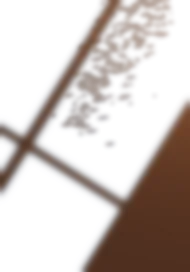
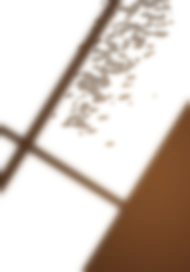
Re-grade A night as a warm lamp-lit evening and add 4:5 hero layout

Changed region(s): [[0.4737, 0.5294, 1.0, 0.9706], [0.5263, 0.0, 0.6316, 0.0882], [0.4737, 0.1176, 0.5263, 0.1471]]

diff --git a/feature/widget/src/main/assets/mood/compose_ref.py b/feature/widget/src/main/assets/mood/compose_ref.py
@@ -41,7 +41,7 @@ LAYOUT = {
     'garmentGrade': {'sunny': {'multiply': '#FFEFDC', 'saturation': 0.90},
                      'cloudy': {'multiply': '#F2EEE8', 'saturation': 0.84},
                      'rain': {'multiply': '#EDEBEA', 'saturation': 0.84},
-                     'night': {'multiply': '#B8B0AA', 'saturation': 0.80}},
+                     'night': {'multiply': '#D2BEA8', 'saturation': 0.86}},
     'contactShadow': {'dx': 6, 'dy': 10, 'blur': 18, 'alpha': 0.35},
     'layouts': {
         'outer_top_bottom': {'acc': ACC(), 'outer': slot(.30, .63, 545, .62, 6, 1), 'bottom': slot(.64, .69, 500, .52, -4, 2),
@@ -63,6 +63,17 @@ LAYOUT = {
              'text': {'caption': {'rect': [36, 28, 400, 56], 'size': 40,
                                   'color': {'sunny': '#6E5848', 'cloudy': '#625A53', 'rain': '#4E4D57', 'night': '#CFC6B8'}}}},
 }
+
+def _hero(k=.87, crop=(0, 0, 760, 950)):
+    """4:5 hero: the 2x2 layouts scaled by k about the top centre, so every piece fits inside the crop."""
+    ox = (crop[2] - W * k) / 2
+    sc = lambda s: dict(s, rect=[round(s['rect'][0] * k + ox), round(s['rect'][1] * k), round(s['rect'][2] * k), round(s['rect'][3] * k)])
+    lays = {n: {r: sc(s) for r, s in lay.items()} for n, lay in LAYOUT['layouts'].items()}
+    for lay in lays.values():
+        for s in lay.values():
+            x, y, w, h = s['rect']; assert x >= 0 and y >= 0 and x + w <= crop[2] and y + h <= crop[3], s
+    return {'crop': list(crop), 'layouts': lays, 'text': json.loads(json.dumps(LAYOUT['text']))}
+LAYOUT['hero'] = _hero()
 
 # ---------------------------------------------------------------- procedural helpers (from vA/mood.py) ----
 def blur(a, s):
@@ -147,8 +158,8 @@ WX = {
                    leak=((1, .8, .6), .08), lamp=None, soft=3.2, lightcol=(1, .95, .88), bounce=(.20, .14, .12)),
     'rain': dict(sheet=(234, 227, 218), sun=(1.0, 1.0, 1.0), fold=1.35, tex=1.9, sat=.82, mul=(.985, .99, 1.0), add=(.012, .010, .012),
                  leak=((.55, .7, .95), .08), lamp=((1, .62, .30), .62, (.98, .16, .70, .60)), soft=1.0, lightcol=(.85, .92, 1.0), bounce=(.35, .22, .16)),
-    'night': dict(sheet=(150, 146, 140), sun=(.60, .63, .72), fold=1.4, tex=1.6, sat=.80, mul=(.98, .97, 1.04), add=(.012, .012, .03),
-                  leak=None, lamp=((1, .58, .28), .50, (1.0, .08, .62, .50)), soft=1.4, lightcol=(.78, .86, 1.0), bounce=(.30, .18, .12)),
+    'night': dict(sheet=(150, 128, 110), sun=(.56, .50, .48), fold=1.4, tex=1.6, sat=.86, mul=(1.0, .97, .95), add=(.016, .012, .022),
+                  leak=((.45, .58, .95), .10), lamp=((1, .68, .34), .72, (.80, .62, .55, .45)), soft=1.4, lightcol=(1, .78, .48), bounce=(.26, .14, .08)),
 }
 
 def build_base(wx):
@@ -224,21 +235,23 @@ def text_draw(img, spec, txt, font, wx, spacing=1.25):
     for i, ln in enumerate(txt.split('\n')):
         dr.text((x, y + i * spec['size'] * spacing), ln, font=font, fill=col, anchor='la')
 
-def compose_A(look, wx, phase=0, line='', caption='', mini=False, L=None):
+def compose_A(look, wx, phase=0, line='', caption='', mini=False, L=None, view=None):
+    """view: None (2x2), 'mini' (1x1) or 'hero' (4:5 in-app hero / share print); crop views use crop-local rects."""
+    view = view or ('mini' if mini else None)
     """look: {role: (garment_key, '#RRGGBB')} with roles outer/top/bottom/dress/shoes/bag/acc."""
     L = L or json.loads((HERE / 'A_layout.json').read_text())
     roles = set(look)
-    if mini:
+    if view == 'mini':
         lay = L['mini']['layouts']['dress' if 'dress' in roles else 'top_bottom']
     else:
-        lay = L['layouts'][('outer_' if 'outer' in roles else '') + ('dress' if 'dress' in roles else 'top_bottom')]
+        lay = (L[view] if view else L)['layouts'][('outer_' if 'outer' in roles else '') + ('dress' if 'dress' in roles else 'top_bottom')]
         if 'outer' in roles and 'dress' not in roles and 'top' not in roles:
-            lay = L['layouts']['top_bottom']; look = {('top' if r == 'outer' else r): v for r, v in look.items()}
+            lay = (L[view] if view else L)['layouts']['top_bottom']; look = {('top' if r == 'outer' else r): v for r, v in look.items()}
     canvas = Image.open(HERE / f'A_{wx}_base.webp').convert('RGBA')
     # light is NOT premultiplied: upscale each channel on its own (Android: decode with inPremultiplied = false)
     light = Image.merge('RGBA', [c.resize(canvas.size, Image.BILINEAR) for c in Image.open(HERE / f'A_{wx}_light{phase}.webp').convert('RGBA').split()])
-    if mini:
-        cx, cy, cw, ch = L['mini']['crop']; canvas = canvas.crop((cx, cy, cx + cw, cy + ch)); light = light.crop((cx, cy, cx + cw, cy + ch))
+    if view:
+        cx, cy, cw, ch = L[view]['crop']; canvas = canvas.crop((cx, cy, cx + cw, cy + ch)); light = light.crop((cx, cy, cx + cw, cy + ch))
     cs, gg = L['contactShadow'], L['garmentGrade'][wx]
     for role, s in sorted(lay.items(), key=lambda kv: kv[1]['z']):
         if role not in look: continue
@@ -267,9 +280,9 @@ def compose_A(look, wx, phase=0, line='', caption='', mini=False, L=None):
     d = np.hypot(xx - ww / 2, yy - hh / 2) / np.hypot(ww / 2, hh / 2)                    # radial gradient, stops .45 -> 1
     img = img * (1 - L['vignette'] * np.clip((d - .45) / .55, 0, 1))[..., None]
     out = Image.fromarray((np.clip(img, 0, 1) * 255 + .5).astype(np.uint8))
-    T = L['mini']['text'] if mini else L['text']
+    T = L[view]['text'] if view else L['text']
     if caption: text_draw(out, T['caption'], caption, ImageFont.truetype(SERIF_IT[0], T['caption']['size'], index=SERIF_IT[1]), wx)
-    if line and not mini: text_draw(out, T['line'], line, ImageFont.truetype(str(MYEONG), T['line']['size']), wx, T['line']['lineSpacing'])
+    if line and view != 'mini': text_draw(out, T['line'], line, ImageFont.truetype(str(MYEONG), T['line']['size']), wx, T['line']['lineSpacing'])
     return out
 
 TODAY = {'outer': ('coat', '#1C2541'), 'top': ('knit', '#C41E3A'), 'bottom': ('long_skirt', '#9B9FA7'),
@@ -289,6 +302,8 @@ if __name__ == '__main__':
     for wx in WEATHERS:
         line, cap = COPY[wx]
         compose_A(TODAY, wx, 0, line, cap).save(HERE / f'reference/A_{wx}.png')
+    for wx in ('rain', 'sunny'):
+        compose_A(TODAY, wx, 0, *COPY[wx], view='hero').save(HERE / f'reference/A_hero_{wx}.png')
     compose_A(TODAY, 'rain', 0, '', '9° · rain', mini=True).save(HERE / 'reference/A_rain_mini.png')
     compose_A(SPRING, 'sunny', 0, '햇살 아래,\n복숭아 한 조각', 'Apr 6 · 17° · sunny day look').save(HERE / 'reference/A_sunny_spring.png')
     print('ok')
